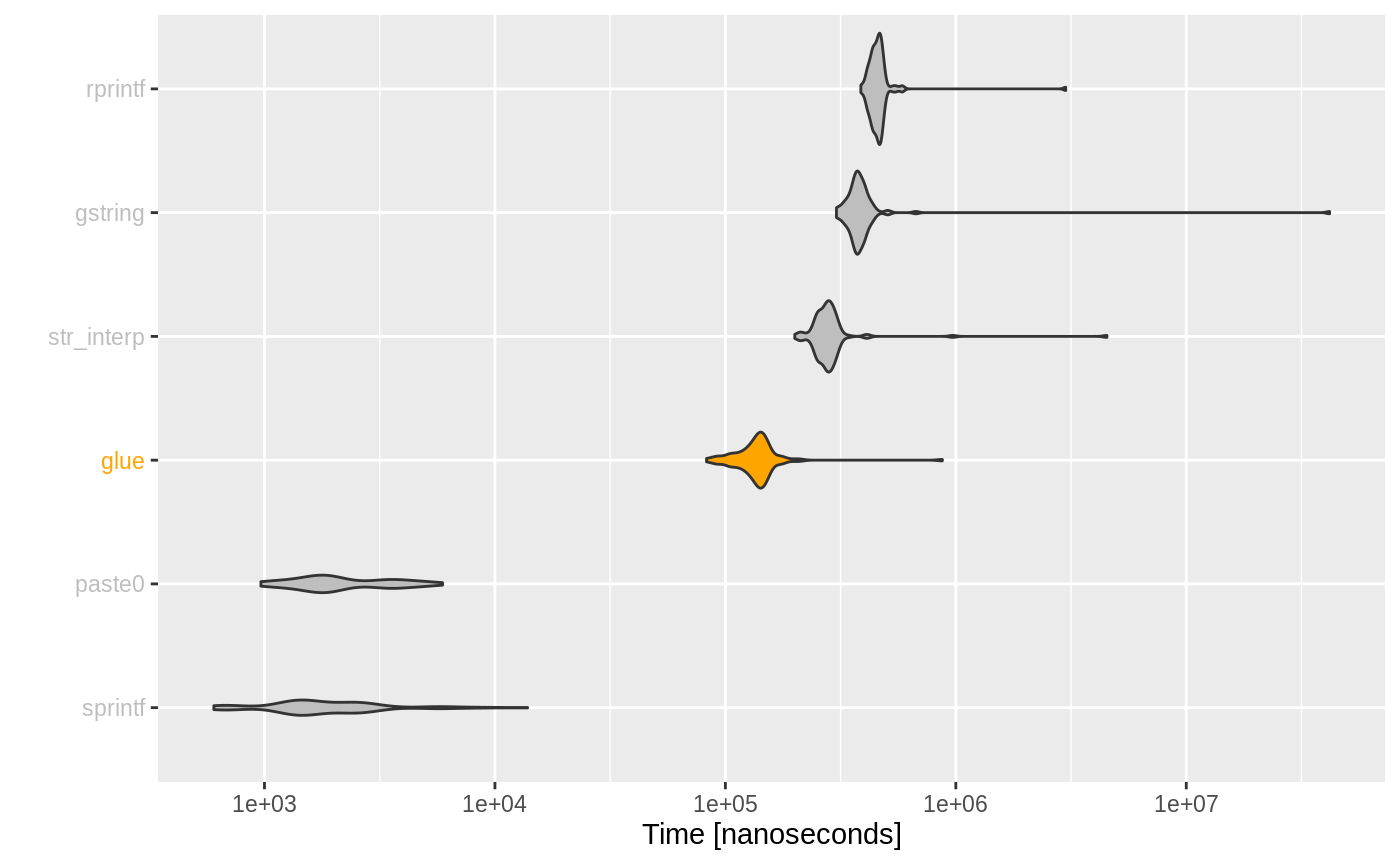
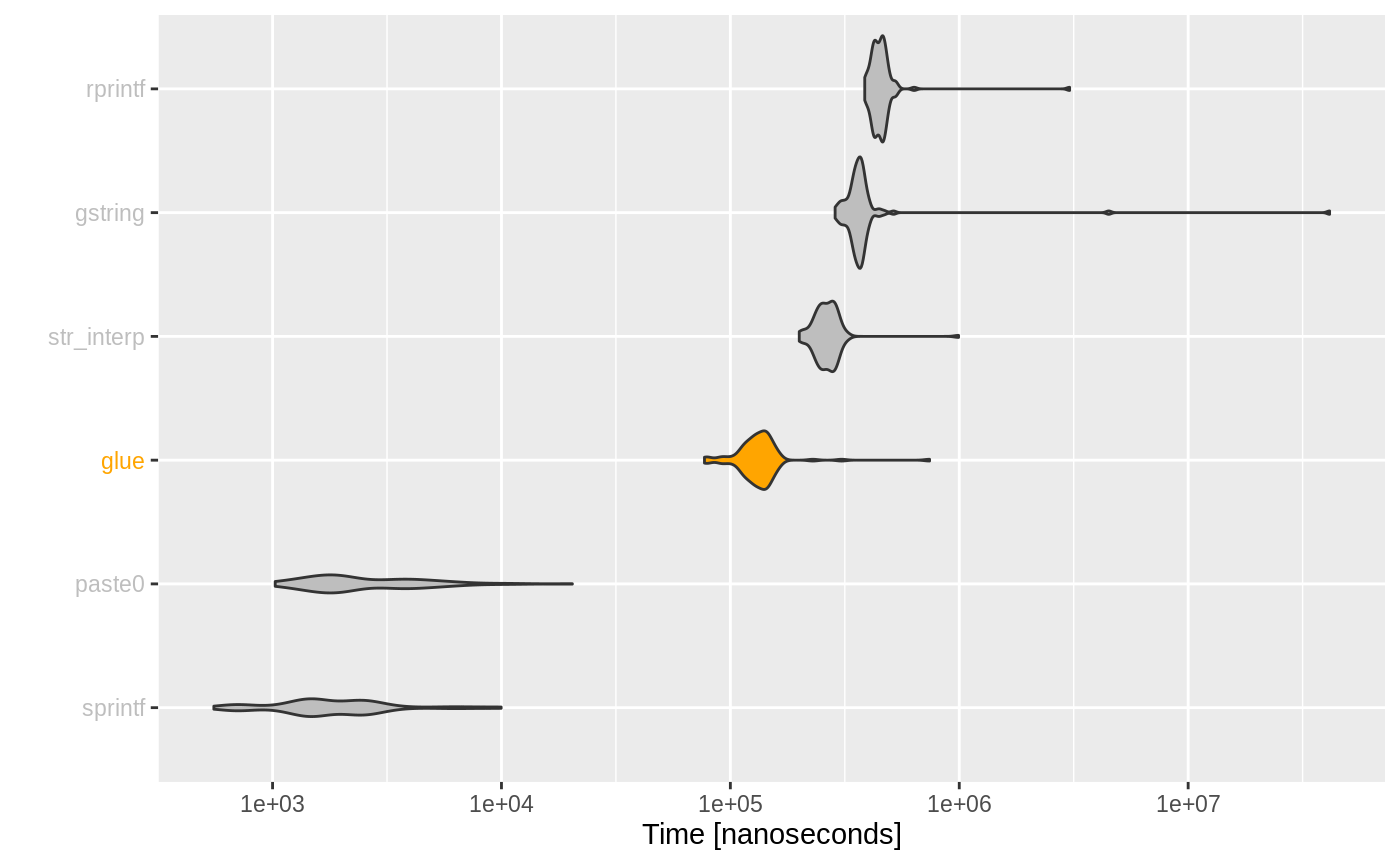
Built site for glue: 1.3.1.9000@3dd3d4e

diff --git a/dev/articles/speed.html b/dev/articles/speed.html
@@ -153,13 +153,13 @@
 <a class="sourceLine" id="cb1-12" data-line-number="12"></a>
 <a class="sourceLine" id="cb1-13" data-line-number="13"><span class="kw"><a href="https://rdrr.io/r/base/print.html">print</a></span>(<span class="dt">unit =</span> <span class="st">"eps"</span>, <span class="dt">order =</span> <span class="st">"median"</span>, <span class="dt">signif =</span> <span class="dv">4</span>, simple)</a>
 <a class="sourceLine" id="cb1-14" data-line-number="14"><span class="co">#&gt; Unit: evaluations per second</span></a>
-<a class="sourceLine" id="cb1-15" data-line-number="15"><span class="co">#&gt;        expr       min     lq   mean median     uq     max neval</span></a>
-<a class="sourceLine" id="cb1-16" data-line-number="16"><span class="co">#&gt;     rprintf    333.50   2116   2182   2190   2299    2582   100</span></a>
-<a class="sourceLine" id="cb1-17" data-line-number="17"><span class="co">#&gt;     gstring     23.88   2504   2630   2652   2800    3296   100</span></a>
-<a class="sourceLine" id="cb1-18" data-line-number="18"><span class="co">#&gt;  str_interp    221.00   3422   3623   3629   3919    4998   100</span></a>
-<a class="sourceLine" id="cb1-19" data-line-number="19"><span class="co">#&gt;        glue   1144.00   6751   7554   7241   8143   12070   100</span></a>
-<a class="sourceLine" id="cb1-20" data-line-number="20"><span class="co">#&gt;      paste0 168800.00 298700 517300 527900 637800 1036000   100</span></a>
-<a class="sourceLine" id="cb1-21" data-line-number="21"><span class="co">#&gt;     sprintf  72140.00 400200 662800 625400 765100 1658000   100</span></a>
+<a class="sourceLine" id="cb1-15" data-line-number="15"><span class="co">#&gt;        expr      min     lq   mean median     uq     max neval</span></a>
+<a class="sourceLine" id="cb1-16" data-line-number="16"><span class="co">#&gt;     rprintf    329.4   2132   2218   2215   2364    2588   100</span></a>
+<a class="sourceLine" id="cb1-17" data-line-number="17"><span class="co">#&gt;     gstring     24.1   2642   2735   2758   2900    3486   100</span></a>
+<a class="sourceLine" id="cb1-18" data-line-number="18"><span class="co">#&gt;  str_interp   1007.0   3530   3829   3793   4132    5000   100</span></a>
+<a class="sourceLine" id="cb1-19" data-line-number="19"><span class="co">#&gt;        glue   1348.0   6912   7768   7523   8329   12980   100</span></a>
+<a class="sourceLine" id="cb1-20" data-line-number="20"><span class="co">#&gt;      paste0  49010.0 266700 465100 498100 608500  973700   100</span></a>
+<a class="sourceLine" id="cb1-21" data-line-number="21"><span class="co">#&gt;     sprintf 100300.0 397500 660000 619400 751900 1805000   100</span></a>
 <a class="sourceLine" id="cb1-22" data-line-number="22"></a>
 <a class="sourceLine" id="cb1-23" data-line-number="23"><span class="kw">plot_comparison</span>(simple)</a></code></pre></div>
 <p><img src="speed_files/figure-html/unnamed-chunk-1-1.png" width="700"></p>
@@ -187,11 +187,11 @@
 <a class="sourceLine" id="cb2-12" data-line-number="12"><span class="kw"><a href="https://rdrr.io/r/base/print.html">print</a></span>(<span class="dt">unit =</span> <span class="st">"ms"</span>, <span class="dt">order =</span> <span class="st">"median"</span>, <span class="dt">signif =</span> <span class="dv">4</span>, vectorized)</a>
 <a class="sourceLine" id="cb2-13" data-line-number="13"><span class="co">#&gt; Unit: milliseconds</span></a>
 <a class="sourceLine" id="cb2-14" data-line-number="14"><span class="co">#&gt;     expr   min    lq  mean median    uq   max neval</span></a>
-<a class="sourceLine" id="cb2-15" data-line-number="15"><span class="co">#&gt;  sprintf 11.75 11.82 12.06  11.91 12.16 15.11   100</span></a>
-<a class="sourceLine" id="cb2-16" data-line-number="16"><span class="co">#&gt;   paste0 13.27 13.43 13.57  13.53 13.67 14.21   100</span></a>
-<a class="sourceLine" id="cb2-17" data-line-number="17"><span class="co">#&gt;     glue 16.51 16.68 17.11  16.80 17.02 20.74   100</span></a>
-<a class="sourceLine" id="cb2-18" data-line-number="18"><span class="co">#&gt;  gstring 28.18 28.33 28.78  28.51 28.71 34.85   100</span></a>
-<a class="sourceLine" id="cb2-19" data-line-number="19"><span class="co">#&gt;  rprintf 46.41 46.72 47.29  46.97 47.36 51.34   100</span></a>
+<a class="sourceLine" id="cb2-15" data-line-number="15"><span class="co">#&gt;  sprintf 11.79 11.95 12.23  12.12 12.36 16.36   100</span></a>
+<a class="sourceLine" id="cb2-16" data-line-number="16"><span class="co">#&gt;   paste0 13.32 13.57 13.83  13.71 13.99 18.38   100</span></a>
+<a class="sourceLine" id="cb2-17" data-line-number="17"><span class="co">#&gt;     glue 16.56 16.93 17.41  17.25 17.69 22.56   100</span></a>
+<a class="sourceLine" id="cb2-18" data-line-number="18"><span class="co">#&gt;  gstring 28.11 28.51 29.08  28.82 29.31 34.41   100</span></a>
+<a class="sourceLine" id="cb2-19" data-line-number="19"><span class="co">#&gt;  rprintf 46.52 47.15 48.23  47.88 49.04 54.47   100</span></a>
 <a class="sourceLine" id="cb2-20" data-line-number="20"></a>
 <a class="sourceLine" id="cb2-21" data-line-number="21"><span class="kw">plot_comparison</span>(vectorized, <span class="dt">log =</span> <span class="ot">FALSE</span>)</a></code></pre></div>
 <p><img src="speed_files/figure-html/unnamed-chunk-2-1.png" width="700"></p>

diff --git a/dev/reference/glue_col.html b/dev/reference/glue_col.html
@@ -45,7 +45,7 @@
 <meta property="og:description" content="The crayon package defines a number of functions used to
 color terminal output. glue_col() and glue_data_col() functions provide
 additional syntax to make using these functions in glue strings easier.
-Using the following syntax will apply the function blue function to the text 'foo bar'.{blue foo bar}
+Using the following syntax will apply the function crayon::blue() to the text 'foo bar'.{blue foo bar}
 
 
 If you want an expression to be evaluated, simply place that in a normal brace
@@ -168,7 +168,7 @@ expression (these can be nested).{blue 1 + 1 = {1 + 1}}
     <p>The <a href='https://rdrr.io/pkg/crayon/man/crayon.html'>crayon</a> package defines a number of functions used to
 color terminal output. <code>glue_col()</code> and <code>glue_data_col()</code> functions provide
 additional syntax to make using these functions in glue strings easier.</p>
-<p>Using the following syntax will apply the function <code>blue</code> function to the text 'foo bar'.</p><pre>{blue foo bar}
+<p>Using the following syntax will apply the function <code><a href='https://rdrr.io/pkg/crayon/man/crayon.html'>crayon::blue()</a></code> to the text 'foo bar'.</p><pre>{blue foo bar}
 </pre>
 
 <p>If you want an expression to be evaluated, simply place that in a normal brace
@@ -186,7 +186,9 @@ expression (these can be nested).</p><pre>{blue 1 + 1 = {1 + 1}}
     <colgroup><col class="name" /><col class="desc" /></colgroup>
     <tr>
       <th>...</th>
-      <td><p>[<code>expressions</code>]<br /> Expressions string(s) to format, multiple inputs are concatenated together before formatting.</p></td>
+      <td><p>[<code>expressions</code>]<br /> Unnamed arguments are taken to be expressions
+string(s) to format. Multiple inputs are concatenated together before formatting.
+Named arguments are taken to be temporary variables available for substitution.</p></td>
     </tr>
     <tr>
       <th>.envir</th>

diff --git a/dev/reference/glue_sql.html b/dev/reference/glue_sql.html
@@ -174,7 +174,9 @@ SQL quoting.</p>
     <colgroup><col class="name" /><col class="desc" /></colgroup>
     <tr>
       <th>...</th>
-      <td><p>[<code>expressions</code>]<br /> Expressions string(s) to format, multiple inputs are concatenated together before formatting.</p></td>
+      <td><p>[<code>expressions</code>]<br /> Unnamed arguments are taken to be expressions
+string(s) to format. Multiple inputs are concatenated together before formatting.
+Named arguments are taken to be temporary variables available for substitution.</p></td>
     </tr>
     <tr>
       <th>.con</th>

diff --git a/dev/reference/glue.html b/dev/reference/glue.html
@@ -195,7 +195,9 @@ from the first and last lines are automatically trimmed.</p>
     </tr>
     <tr>
       <th>...</th>
-      <td><p>[<code>expressions</code>]<br /> Expressions string(s) to format, multiple inputs are concatenated together before formatting.</p></td>
+      <td><p>[<code>expressions</code>]<br /> Unnamed arguments are taken to be expressions
+string(s) to format. Multiple inputs are concatenated together before formatting.
+Named arguments are taken to be temporary variables available for substitution.</p></td>
     </tr>
     <tr>
       <th>.sep</th>
